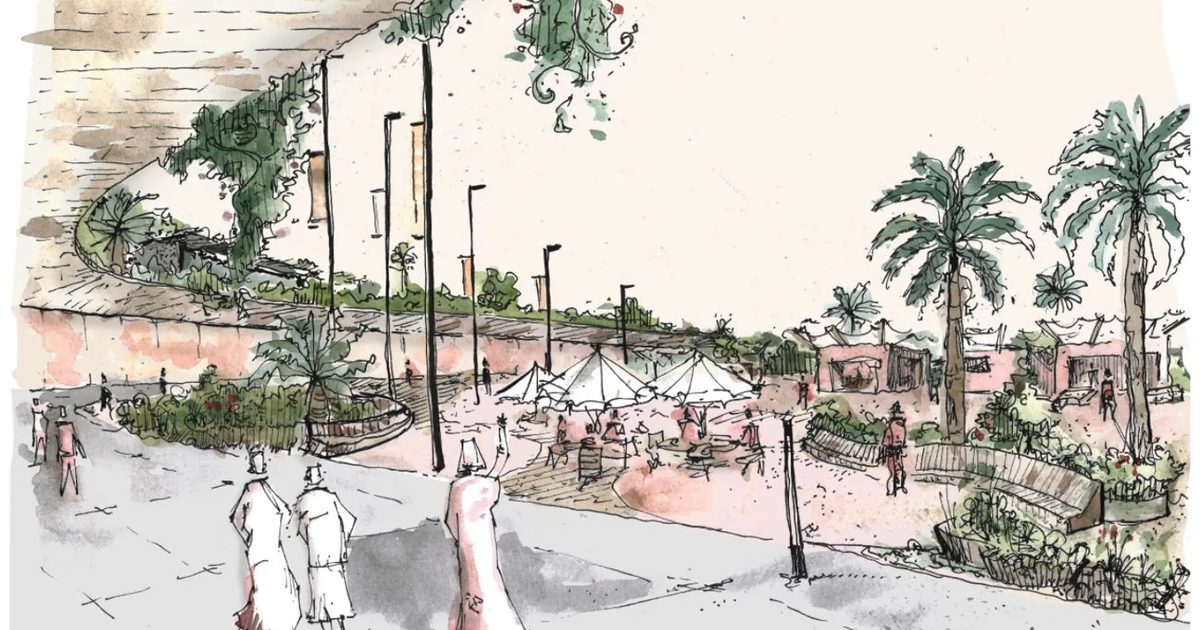
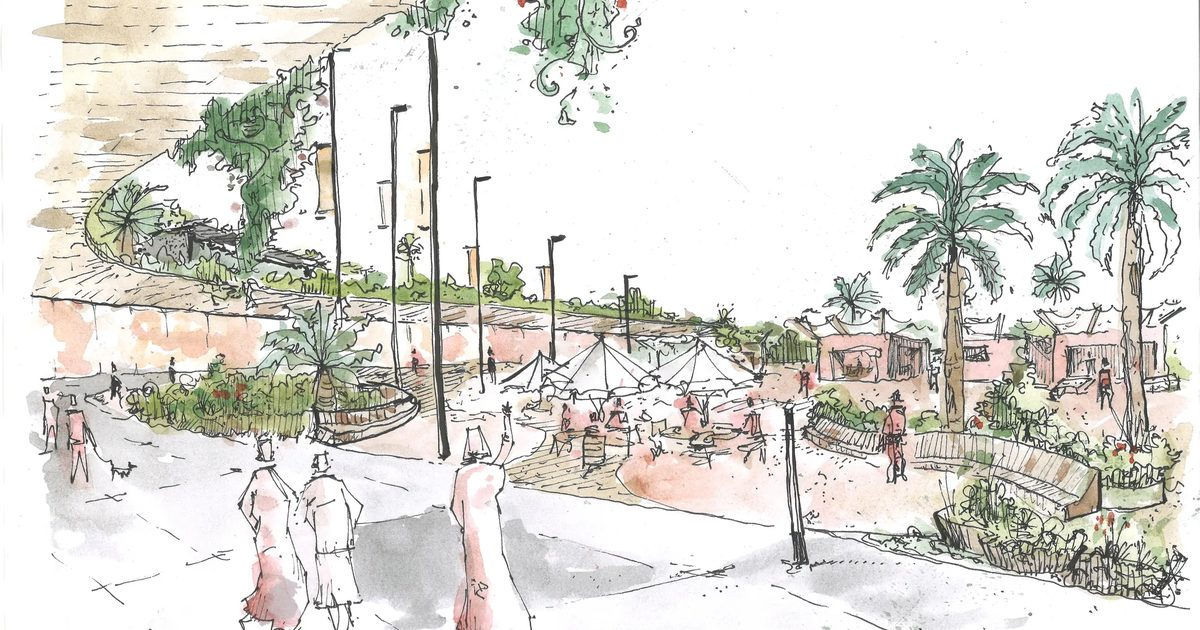
New project: Murata 157 (Londrina), with confidentiality note; drawings shown at their own proportions
Claude-Session: https://claude.ai/code/session_01WM6uxK1NEqAWShwuwggTNP

diff --git a/assets/data/projects.js b/assets/data/projects.js
@@ -113,6 +113,50 @@ window.PROJECTS = [
     featured: true
   },
   {
+    slug: "murata-157",
+    title: "Murata 157",
+    aka: null,
+    location: "Londrina, PR, Brazil",
+    typology: "Residential tower",
+    category: "Residential",
+    year: "2025",
+    yearNote: "design",
+    area: "21,395 m²",
+    practice: "Architects Office",
+    position: "Project Leader",
+    stages: ["Schematic design"],
+    role: "Project Leader at Architects Office, from the kick-off through the four presentations of the schematic design (2025–2026).",
+    awards: [],
+    credit: "Confidential project, in development. The client and the name of the development are withheld; images © Architects Office, shown for portfolio purposes only.",
+    summary:
+      "A residential tower in Londrina built on one square grid: four apartments per floor around a central core, behind a deep concrete frame.",
+    description: [
+      "The site is a 2,335 m² plot in the Gleba Palhano district. The brief asked for apartments with three suites, four per floor, and a leisure floor with a 25 m pool, a gym and gourmet spaces.",
+      "The concept starts from the square: the Renaissance plans of the Palazzo Farnese and Palladio’s Villa La Rotonda, and the Sierpinski carpet, a square divided into nine with its centre removed, repeated at every scale. The tower follows the same rule — a square plan with the core at its centre and four apartments around it.",
+      "One structural grid of 5.60 m, divided into 1.40 m modules, organises everything: two parking spaces fit between columns in the basements, and the bedrooms, bathrooms and wardrobes take whole modules above. On the facade the grid becomes a deep concrete frame filled with glazing, timber screens and balconies.",
+      "92 apartments of about 120 m² each, with 21,395 m² of built area."
+    ],
+    cover: "murata/front",
+    gallery: [
+      { layout: "full", img: "murata/front", alt: "The lower floors facing the street: a grid of concrete frames above a stone base with planting" },
+      { layout: "pair", images: [
+        { img: "murata/tower", alt: "The tower seen from the avenue among trees: a slender square tower with a deep concrete frame and warm infill panels" },
+        { img: "murata/below", alt: "The tower seen from below through the trees" }
+      ] },
+      { layout: "wide", img: "murata/fractal", alt: "Four squares showing the Sierpinski carpet: a square divided into nine with the centre removed, repeated at smaller scales", caption: "Concept — the Sierpinski carpet", natural: true },
+      { layout: "pair", images: [
+        { img: "murata/plan", alt: "Typical floor plan: four apartments around the central core on the square grid", caption: "Typical floor plan" },
+        { img: "murata/section", alt: "Section of the tower above the basements on the sloping site", caption: "Section" }
+      ] },
+      { layout: "wide", img: "murata/module", alt: "The structural grid of 5.60 m divided into 1.40 m modules: two parking spaces between columns, bedrooms and bathrooms in whole modules", caption: "One grid for structure, parking and rooms", natural: true },
+      { layout: "wide", img: "murata/pool", alt: "The leisure floor: a pool with natural stone edges beside the tower" },
+      { layout: "wide", img: "murata/entrance", alt: "The entrance at dusk: warm light between carved stone walls at the foot of the tower" },
+      { layout: "wide", img: "murata/corner", alt: "Close view of the corner: concrete frames with timber screens and glazing" }
+    ],
+    team: null,
+    featured: true
+  },
+  {
     slug: "iguatemi-306", // area 49,811 m² confirmed by Filipe (12 Oct 2026); the CV previously gave 41,400 m²
     title: "Iguatemi 306",
     location: "São Paulo, SP, Brazil",

diff --git a/assets/data/facts.js b/assets/data/facts.js
@@ -40,7 +40,7 @@ window.FACTS = {
     { name: "1144", year: 2024, type: "Residential building", area: 42708.29, city: "Goiânia, GO", role: "Dedicated architect", stage: "AP" },
     { name: "Hortensias SN", year: 2023, type: "Residential building", area: 6238.04, city: "Gramado, RS", role: "Dedicated architect", stage: "EP", slug: "gramado" },
     { name: "Monolyt", year: 2022, type: "Residential building", area: 11473.58, city: "Balneário Camboriú, SC", role: "Architect", stage: "EP", slug: "monolyt" },
-    { name: "Murata 157", year: 2025, type: "Residential building", area: 21394.86, city: "Londrina, PR", role: "Project Leader", stage: "EP" },
+    { name: "Murata 157", year: 2025, type: "Residential building", area: 21394.86, city: "Londrina, PR", role: "Project Leader", stage: "EP", slug: "murata-157" },
     { name: "Penteado 84", year: 2022, type: "Residential building", area: 3367.12, city: "São Paulo, SP", role: "Dedicated architect", stage: "EV" },
     { name: "Gaivota 530", year: 2024, type: "Residential building", area: 21725.63, city: "São Paulo, SP", role: "Dedicated architect", stage: "EV", slug: "gaivota" },
     { name: "Leite 668", year: 2025, type: "Residential building", area: 6564.54, city: "São Paulo, SP", role: "Dedicated architect", stage: "EP" },

diff --git a/assets/data/images.js b/assets/data/images.js
@@ -243,6 +243,102 @@ window.IMAGES = {
    2000
   ]
  },
+ "murata/below": {
+  "r": 1.0,
+  "w": [
+   640,
+   1280,
+   2000
+  ]
+ },
+ "murata/corner": {
+  "r": 1.7747,
+  "w": [
+   640,
+   1280,
+   2000
+  ]
+ },
+ "murata/crown": {
+  "r": 0.7519,
+  "w": [
+   640,
+   1280,
+   1955
+  ]
+ },
+ "murata/detail": {
+  "r": 1.0,
+  "w": [
+   640,
+   1280,
+   2000
+  ]
+ },
+ "murata/entrance": {
+  "r": 1.7784,
+  "w": [
+   640,
+   1280,
+   2000
+  ]
+ },
+ "murata/fractal": {
+  "r": 5.4848,
+  "w": [
+   640,
+   1280,
+   2000
+  ]
+ },
+ "murata/front": {
+  "r": 1.7772,
+  "w": [
+   640,
+   1280,
+   2000
+  ]
+ },
+ "murata/module": {
+  "r": 6.0,
+  "w": [
+   640,
+   1280,
+   2000
+  ]
+ },
+ "murata/plan": {
+  "r": 1.2418,
+  "w": [
+   640,
+   1280,
+   1808
+  ]
+ },
+ "murata/pool": {
+  "r": 1.7772,
+  "w": [
+   640,
+   1280,
+   2000
+  ]
+ },
+ "murata/section": {
+  "r": 1.6019,
+  "w": [
+   640,
+   1280,
+   2000
+  ]
+ },
+ "murata/tower": {
+  "r": 1.0,
+  "w": [
+   640,
+   1280,
+   2000
+  ]
+ },
  "profile/places-america": {
   "r": 1.9105,
   "w": [

diff --git a/assets/css/style.css b/assets/css/style.css
@@ -255,6 +255,8 @@ h1, h2, h3 { font-family: var(--sans); font-weight: 600; letter-spacing: -.025em
 .gf a.zoom { display: block; overflow: hidden; }
 .gf img { width: 100%; height: 100%; object-fit: cover; }
 .f-125 a.zoom { aspect-ratio: 12 / 5; }
+.f-nat img { height: auto !important; }
+.gf.drawing.f-nat a.zoom { padding: clamp(16px, 3vw, 40px) 0; }
 .f-169 a.zoom { aspect-ratio: 16 / 9; }
 .f-32 a.zoom { aspect-ratio: 3 / 2; }
 .f-43 a.zoom { aspect-ratio: 4 / 3; }

diff --git a/tools/build_images.py b/tools/build_images.py
@@ -79,6 +79,19 @@ MANIFEST = {
     "tramandai/siteplan": ("C", "tcc-siteplan.png"),
     "tramandai/elevations": ("C", "tcc-elevations.png"),
     "tramandai/section": ("C", "tcc-section.png"),
+    # Murata 157, from the schematic design presentation (renders as embedded in the PDF; drawings cropped from it)
+    "murata/tower": ("C", "mu-tower.jpg"),
+    "murata/front": ("C", "mu-front.jpg"),
+    "murata/corner": ("C", "mu-corner.jpg"),
+    "murata/entrance": ("C", "mu-entrance.jpg"),
+    "murata/pool": ("C", "mu-pool.jpg"),
+    "murata/crown": ("C", "mu-crown.jpg"),
+    "murata/detail": ("C", "mu-detail.jpg"),
+    "murata/below": ("C", "mu-below.jpg"),
+    "murata/fractal": ("C", "mu-fractal.png"),
+    "murata/module": ("C", "mu-module.png"),
+    "murata/plan": ("C", "mu-plan.png"),
+    "murata/section": ("C", "mu-section.png"),
     # Sketchbook, from portfólio\croquis (scans at 600 dpi; "-pencil" = the same sheet before colour)
     "sketch/multifamily-house": ("C", "k-perspectiva-bm8.png"),  # Perspectiva BM8.png
     "sketch/multifamily-block": ("C", "k-croqui-geral-bm8.png"),  # Croqui geral BM8 2.png
